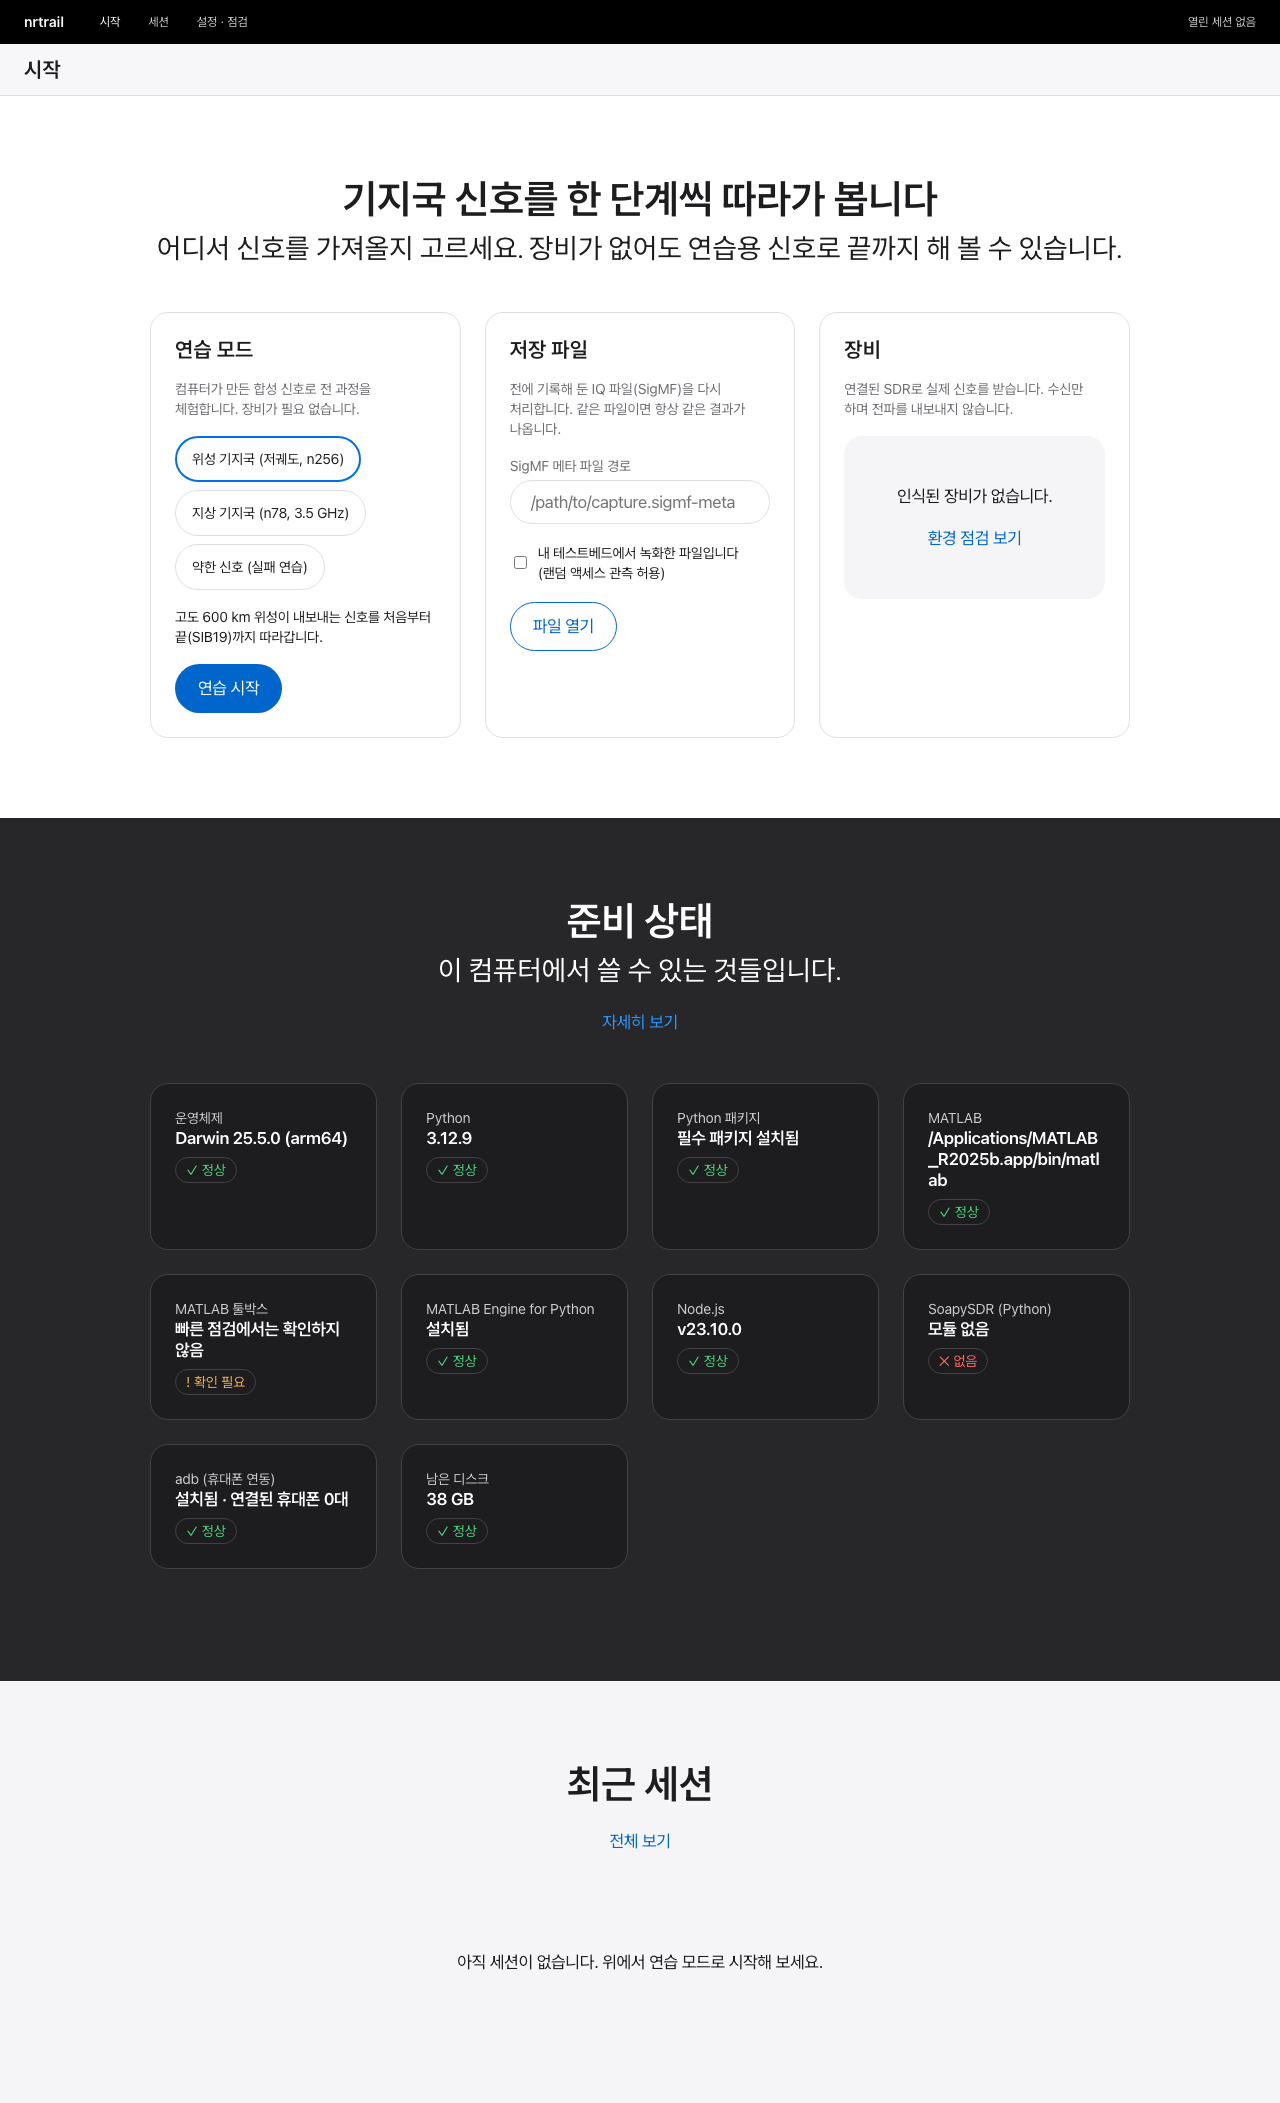
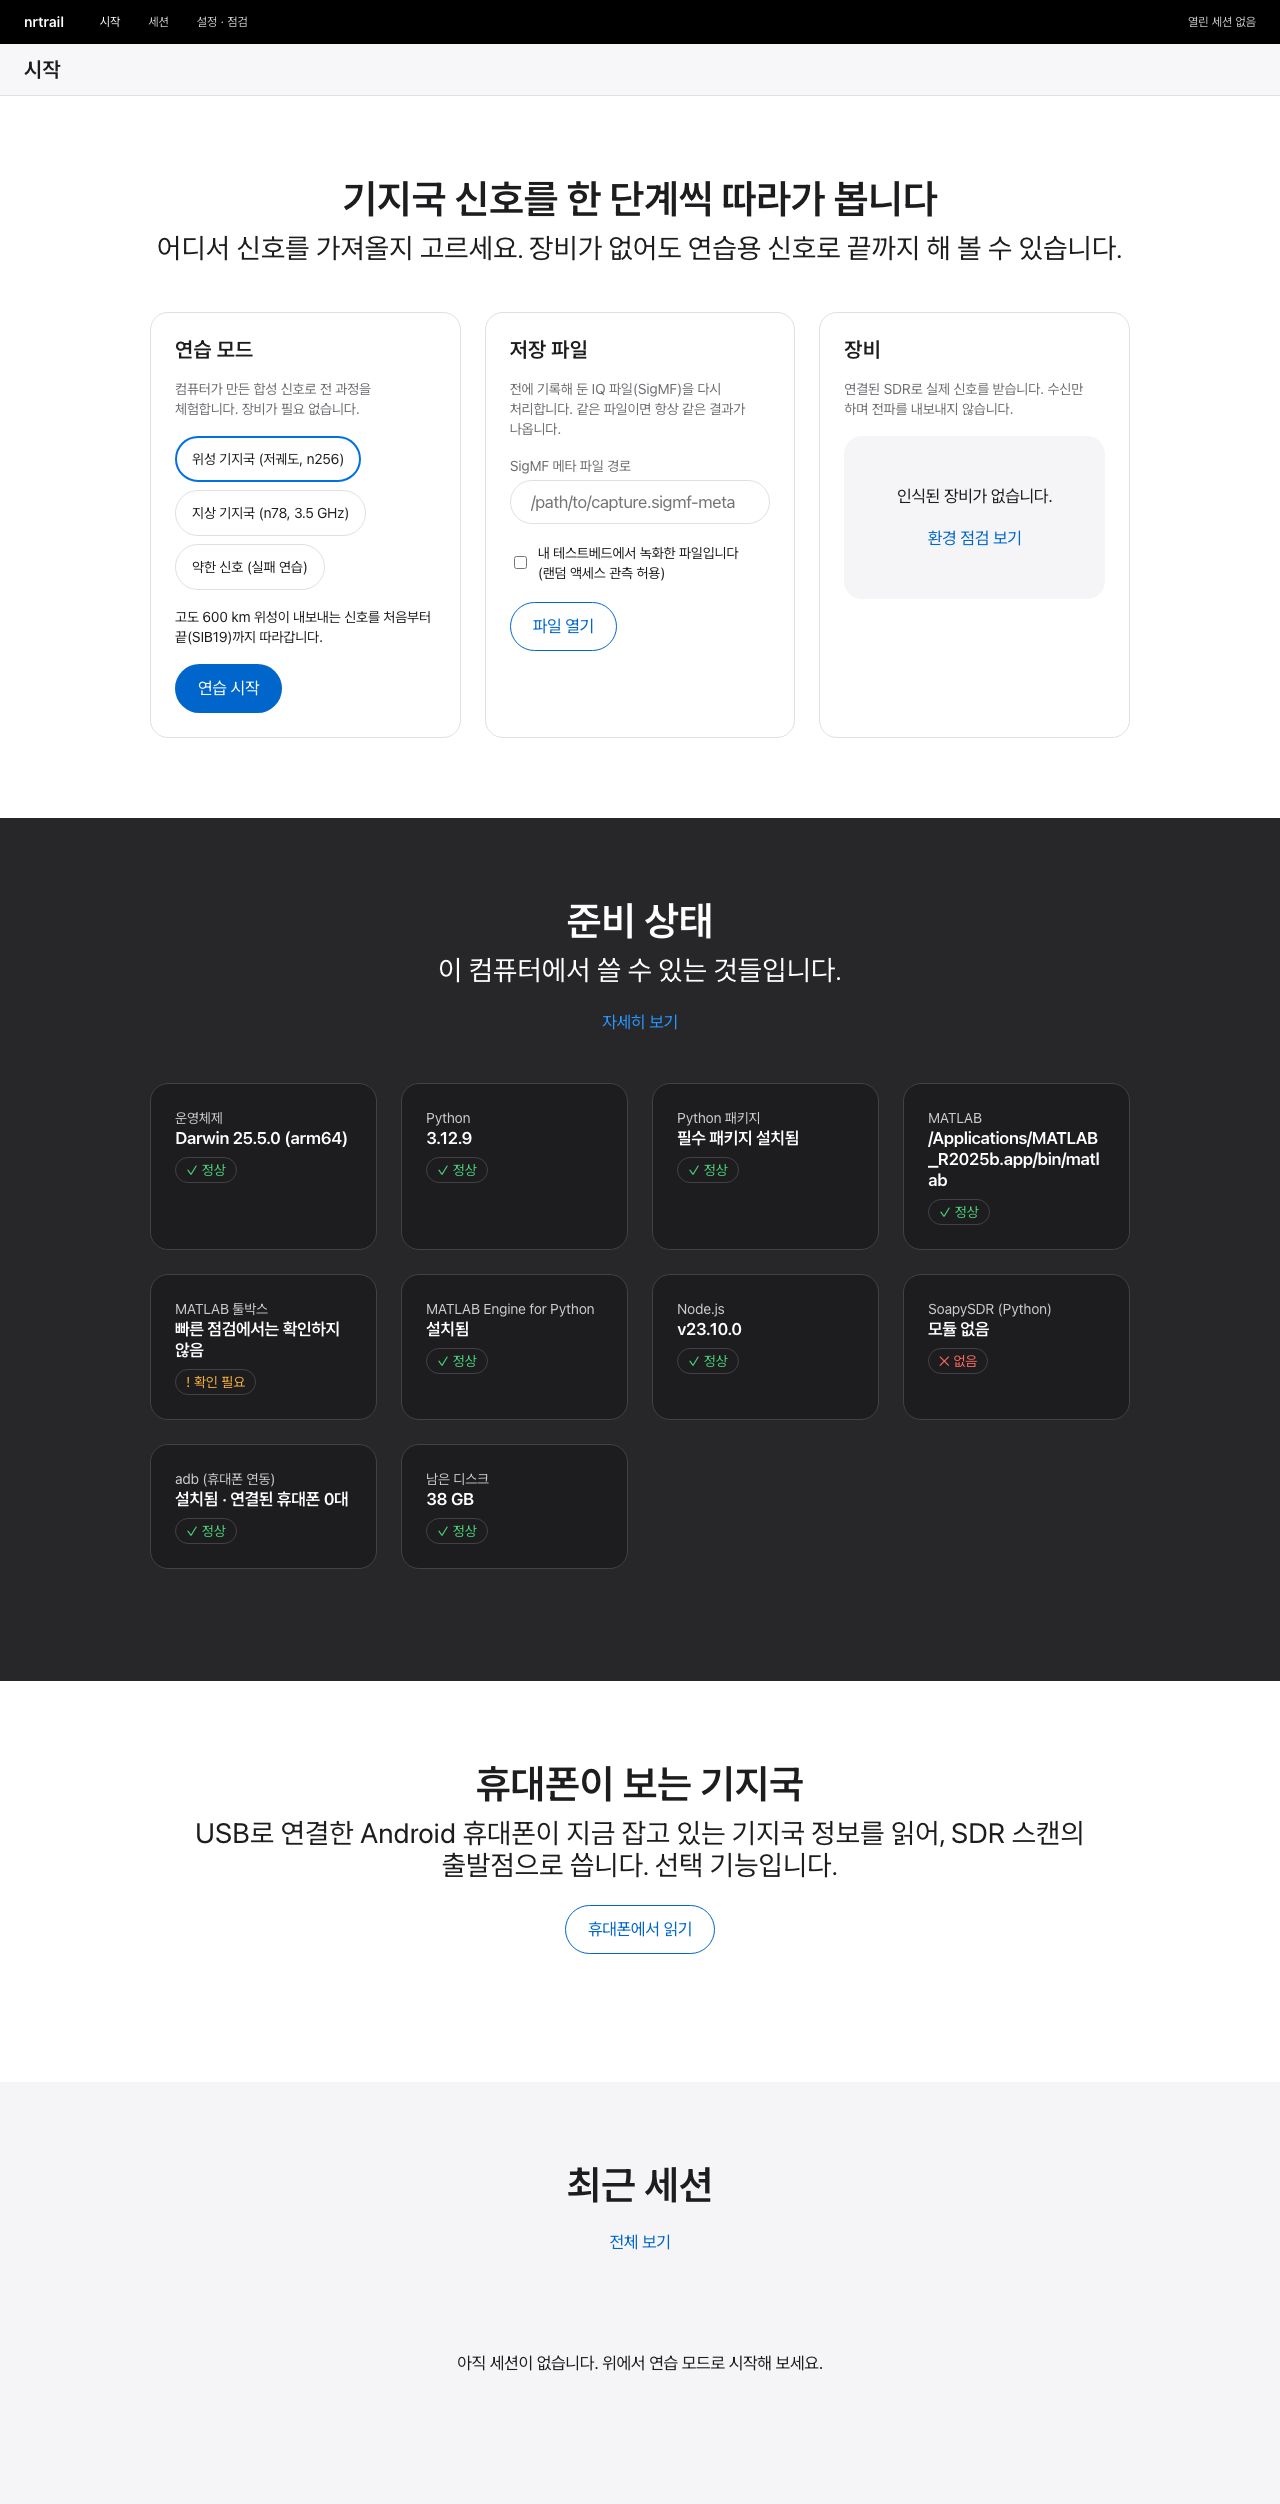
feat(M9): 시작 화면에 휴대폰 셀 정보 구역 (읽기, SDR 결과와 대조, 원문 표시)

diff --git a/web/src/screens/PhoneTile.tsx b/web/src/screens/PhoneTile.tsx
@@ -1,0 +1,118 @@
+import { useState } from "react";
+import type { DeviceInfo, PhoneCell, PhoneReport } from "../api";
+import { Tile, TileHead } from "../components/layout";
+import { Badge, Button, Empty, Fold } from "../components/ui";
+import { t } from "../i18n";
+import { go } from "../router";
+import { useStore } from "../state/store";
+
+const fmt = (v: number | string | undefined, unit = "") => (v === undefined || v === null ? "–" : `${v}${unit}`);
+
+/** 휴대폰이 보는 기지국 (선택 기능). adb로 읽은 셀 정보를 SDR 스캔의 출발점으로 쓰고, SDR 결과와 대조한다. */
+export function PhoneTile({ devices }: { devices: DeviceInfo[] }) {
+  const { api, start, session, results } = useStore();
+  const [report, setReport] = useState<PhoneReport | null>(null);
+  const [busy, setBusy] = useState(false);
+  const [error, setError] = useState("");
+
+  const read = async () => {
+    setBusy(true);
+    setError("");
+    try {
+      setReport(await api.phoneCells());
+    } catch (e) {
+      setError(String(e instanceof Error ? e.message : e));
+    } finally {
+      setBusy(false);
+    }
+  };
+
+  const follow = async (cell: PhoneCell) => {
+    const device = devices[0];
+    if (!device || cell.freq_mhz === undefined) return;
+    const s = await start({ kind: "device", device: device.id, device_label: device.label, center_freq_hz: cell.freq_mhz * 1e6, band: cell.band });
+    go("scan", s.id);
+  };
+
+  // SDR로 찾은 기지국(열려 있는 세션의 스캔 결과)과 대조한다.
+  const sdrCells = (results.scan?.next_inputs.cells as { pci: number; ss_ref_hz: number; gscn: number }[] | undefined) ?? [];
+  const sdr = sdrCells.find((c) => c.gscn === (session?.selected_cell?.gscn ?? results.scan?.next_inputs.selected_gscn)) ?? sdrCells[0];
+  const compare = (cell: PhoneCell) => {
+    if (!sdr || cell.pci === undefined) return null;
+    const delta = cell.freq_mhz === undefined ? null : Math.abs(cell.freq_mhz - sdr.ss_ref_hz / 1e6);
+    return { match: cell.pci === sdr.pci, delta };
+  };
+
+  return (
+    <Tile tone="light" id="phone">
+      <TileHead title={t("phone.title")} lead={t("phone.lead")}>
+        <Button variant="secondary" onClick={() => void read()} disabled={busy} data-testid="phone-read">
+          {busy ? t("status.running") : t("phone.read")}
+        </Button>
+      </TileHead>
+      {error && <Empty>{t("status.error", { message: error })}</Empty>}
+      {report && report.status !== "ok" && (
+        <Empty>
+          <span data-testid="phone-status">{t(`phone.status.${report.status}`)}</span>
+        </Empty>
+      )}
+      {report?.status === "ok" && (
+        <div className="cards" data-testid="phone-cells">
+          {report.cells.map((cell, i) => {
+            const cmp = compare(cell);
+            return (
+              <div className="card stack" key={i}>
+                <div className="row">
+                  <span className="t-tagline">
+                    {cell.rat} · PCI {fmt(cell.pci)}
+                  </span>
+                  {cell.registered && <Badge level="ok">{t("phone.registered")}</Badge>}
+                </div>
+                <div className="t-caption num">
+                  {t("phone.freq")}: {fmt(cell.freq_mhz, " MHz")} · ARFCN {fmt(cell.arfcn)} {cell.band ? `· ${cell.band}` : ""}
+                  <br />
+                  PLMN {fmt(cell.mcc)}-{fmt(cell.mnc)} · TAC {fmt(cell.tac)} · {t("phone.cell_id")} {fmt(cell.cell_id)}
+                  <br />
+                  RSRP {fmt(cell.rsrp_dbm, " dBm")} · RSRQ {fmt(cell.rsrq_db, " dB")} · SINR {fmt(cell.sinr_db, " dB")}
+                  {cell.timing_advance !== undefined ? ` · TA ${cell.timing_advance}` : ""}
+                </div>
+                {cmp && (
+                  <div data-testid="phone-compare">
+                    <Badge level={cmp.match ? "ok" : "warn"}>
+                      {cmp.match ? t("phone.match") : t("phone.mismatch")}
+                      {cmp.delta !== null ? ` · ${t("phone.delta", { mhz: cmp.delta.toFixed(2) })}` : ""}
+                    </Badge>
+                  </div>
+                )}
+                {cell.rat === "NR" && cell.freq_mhz !== undefined && (
+                  <div>
+                    <Button variant="link" disabled={devices.length === 0} onClick={() => void follow(cell)} title={devices.length === 0 ? t("phone.need_device") : undefined}>
+                      {t("phone.follow")}
+                    </Button>
+                    {devices.length === 0 && <span className="t-fine-print muted"> {t("phone.need_device")}</span>}
+                  </div>
+                )}
+              </div>
+            );
+          })}
+        </div>
+      )}
+      {report && (
+        <>
+          {report.raw && (report.status === "unparsed" || report.cells.length === 0) && (
+            <Fold title={t("phone.raw")} defaultOpen={report.status === "unparsed"}>
+              <pre className="mono t-fine-print" style={{ whiteSpace: "pre-wrap", lineHeight: 1.4 }}>
+                {report.raw}
+              </pre>
+            </Fold>
+          )}
+          <ul className="t-caption muted" data-testid="phone-limits">
+            {report.limits.map((l) => (
+              <li key={l}>{l}</li>
+            ))}
+          </ul>
+        </>
+      )}
+    </Tile>
+  );
+}

diff --git a/web/src/screens/PhoneTile.test.tsx b/web/src/screens/PhoneTile.test.tsx
@@ -1,0 +1,32 @@
+import { screen } from "@testing-library/react";
+import userEvent from "@testing-library/user-event";
+import { expect, test } from "vitest";
+import { fakeApi, renderWithStore } from "../test-utils";
+import { PhoneTile } from "./PhoneTile";
+
+test("휴대폰 셀 정보를 보여주고, 장비가 없으면 따라가기 버튼을 막는다", async () => {
+  const api = fakeApi();
+  api.phoneCells = async () => ({
+    status: "ok",
+    device: "Pixel",
+    cells: [{ registered: true, rat: "NR", arfcn: 632628, band: "n78", pci: 101, tac: "000A01", mcc: "001", mnc: "01", rsrp_dbm: -92, freq_mhz: 3489.42 }],
+    limits: ["루팅 없이 SIB 원문은 얻을 수 없습니다."],
+  });
+  renderWithStore(<PhoneTile devices={[]} />, api);
+  await userEvent.click(await screen.findByTestId("phone-read"));
+  const cells = await screen.findByTestId("phone-cells");
+  expect(cells).toHaveTextContent("PCI 101");
+  expect(cells).toHaveTextContent("3489.42 MHz");
+  expect(cells).toHaveTextContent("접속 중");
+  expect(screen.getByRole("button", { name: "이 셀을 SDR로 따라가기" })).toBeDisabled();
+  expect(screen.getByTestId("phone-limits")).toHaveTextContent("루팅 없이");
+});
+
+test("해석하지 못하면 원문을 보여주고 계속 쓸 수 있다", async () => {
+  const api = fakeApi();
+  api.phoneCells = async () => ({ status: "unparsed", cells: [], raw: "mCellInfo=???", limits: [] });
+  renderWithStore(<PhoneTile devices={[]} />, api);
+  await userEvent.click(await screen.findByTestId("phone-read"));
+  expect(await screen.findByTestId("phone-status")).toHaveTextContent("해석하지 못했습니다");
+  expect(screen.getByText("mCellInfo=???")).toBeInTheDocument();
+});

diff --git a/web/e2e/practice.spec.ts b/web/e2e/practice.spec.ts
@@ -108,3 +108,10 @@ test("좁은 화면에서도 가로로 넘치지 않는다", async ({ page }) =>
   expect(overflow).toBeLessThanOrEqual(0);
   await shot(page, "10-mobile-scan");
 });
+
+test("휴대폰 연동: 휴대폰이 없어도 이유를 알려 주고 화면은 계속 동작한다", async ({ page }) => {
+  await page.goto("/");
+  await page.getByTestId("phone-read").click();
+  await expect(page.getByTestId("phone-status").or(page.getByTestId("phone-cells"))).toBeVisible();
+  await page.locator("#phone").screenshot({ path: path.join(SHOTS, "11-phone.png") });
+});

diff --git a/web/src/screens/StartScreen.tsx b/web/src/screens/StartScreen.tsx
@@ -5,6 +5,7 @@ import { Badge, Button, Chip, Empty, Field } from "../components/ui";
 import { t } from "../i18n";
 import { go, href } from "../router";
 import { useStore } from "../state/store";
+import { PhoneTile } from "./PhoneTile";
 
 const DOCTOR_LEVEL = { ok: "ok", warn: "warn", missing: "error" } as const;
 
@@ -154,6 +155,8 @@ export function StartScreen() {
           ))}
         </div>
       </Tile>
+
+      <PhoneTile devices={devices} />
 
       <Tile tone="parchment">
         <TileHead title={t("start.recent.title")}>
